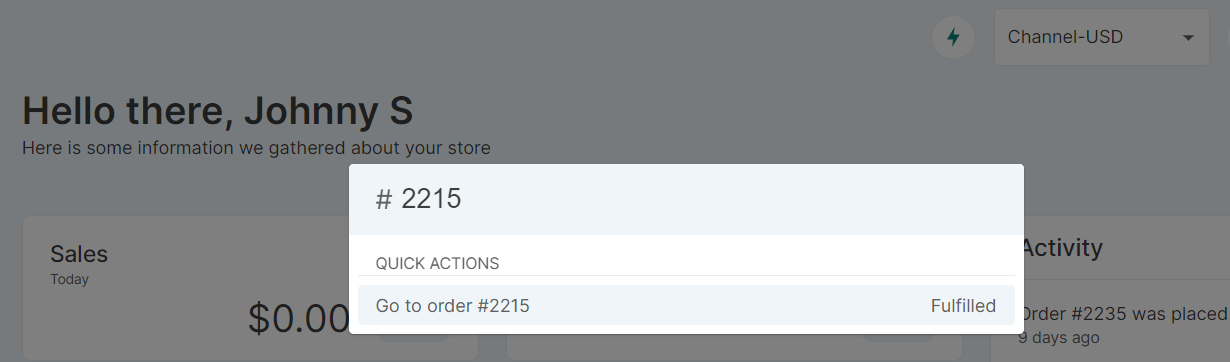
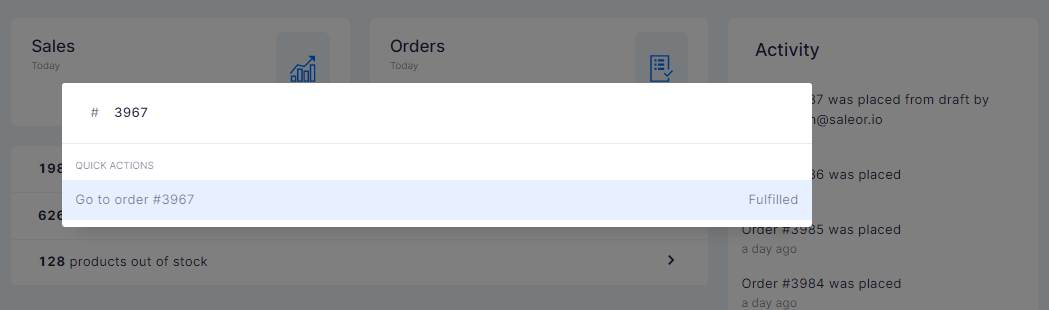
Replace dashboard home screenshots

diff --git a/docs/dashboard/home.md b/docs/dashboard/home.md
@@ -17,7 +17,7 @@ Get a quick summary of the number of orders for the current day and the running 
 
 Once multiple sales [channels](dashboard/configuration/channels.md) have been created, you can switch between the channels. To switch the channel, click the tab next to your user name in the top right corner of the dashboard page.
 
-![Dashboard channels](screenshots/dashboard-home-channels.jpg)
+![Dashboard channels](screenshots/dashboard-home-channels.png)
 
 ## Orders, payments, and out of stocks
 
@@ -50,13 +50,13 @@ Saleor allows you to change the following information of the staff account:
 
 Once you are logged in to your dashboard staff account, to change the information above, go to the _Account Settings_ by clicking on your account name in the top right corner of the dashboard.
 
-![Account Settings](screenshots/dashboard-home-account-settings.jpg)
+![Account Settings](screenshots/dashboard-home-account-settings.png)
 
 ### How to enable dark mode
 
 If you prefer to work in dark mode, click on your account name in the top right corner of the dashboard and then click the _Enable Dark Mode_ button.
 
-![Dark Mode](screenshots/dashboard-home-dark-mode.jpg)
+![Dark Mode](screenshots/dashboard-home-dark-mode.png)
 
 ### How to log out
 
@@ -80,7 +80,7 @@ You can type "?" to see all available navigation options.
 
 #### The examples of using the dashboard navigator
 
-1. You are looking for a specific order. Once the dashboard navigator is open, type *#* and then the number of the order. In the following example, the product order number is 2215. The dashboard navigator will show you the fulfillment status.
+1. You are looking for a specific order. Once the dashboard navigator is open, type *#* and then the number of the order. In the following example, the product order number is 3967. The dashboard navigator will show you the fulfillment status.
 
 You can open the order's detail page by clicking the order under the _Quick actions_ section.
 
